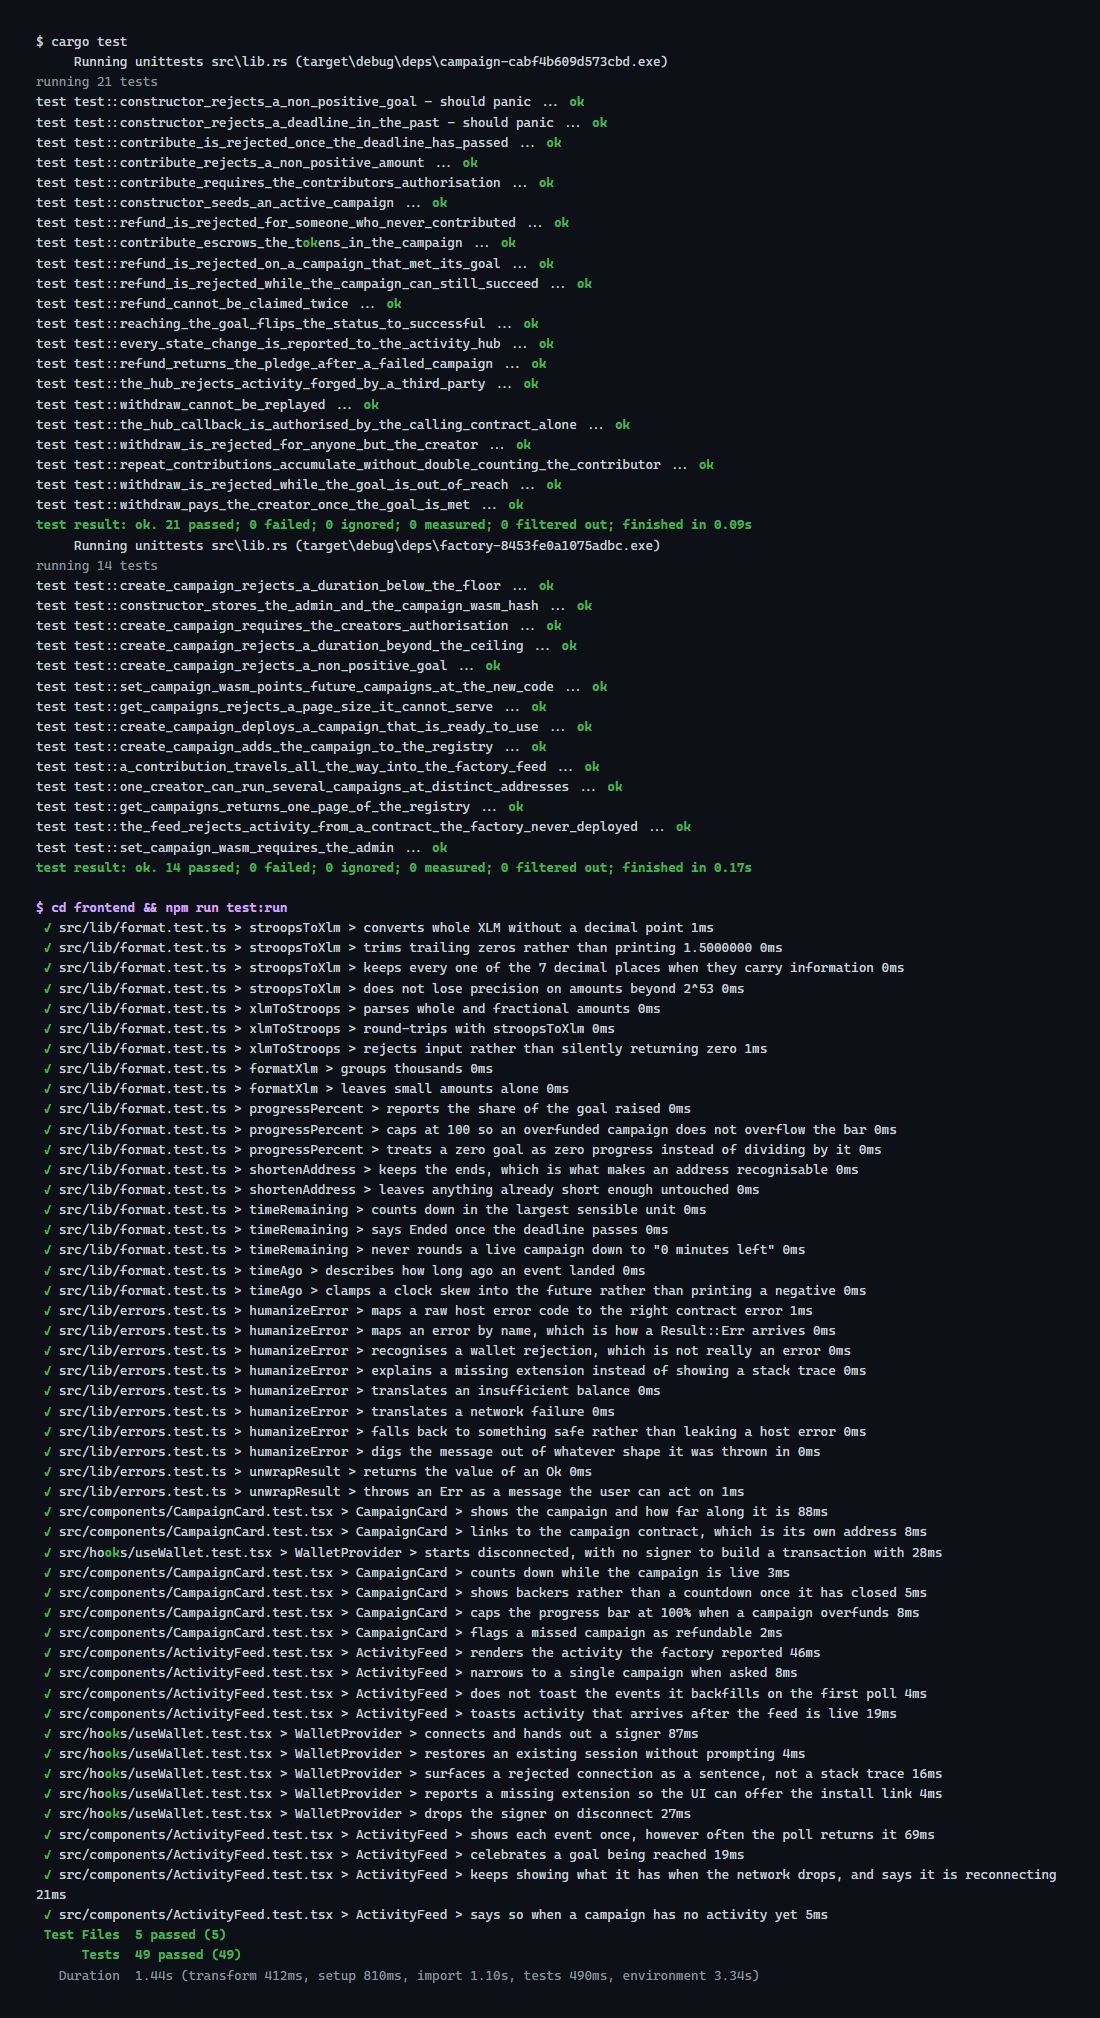
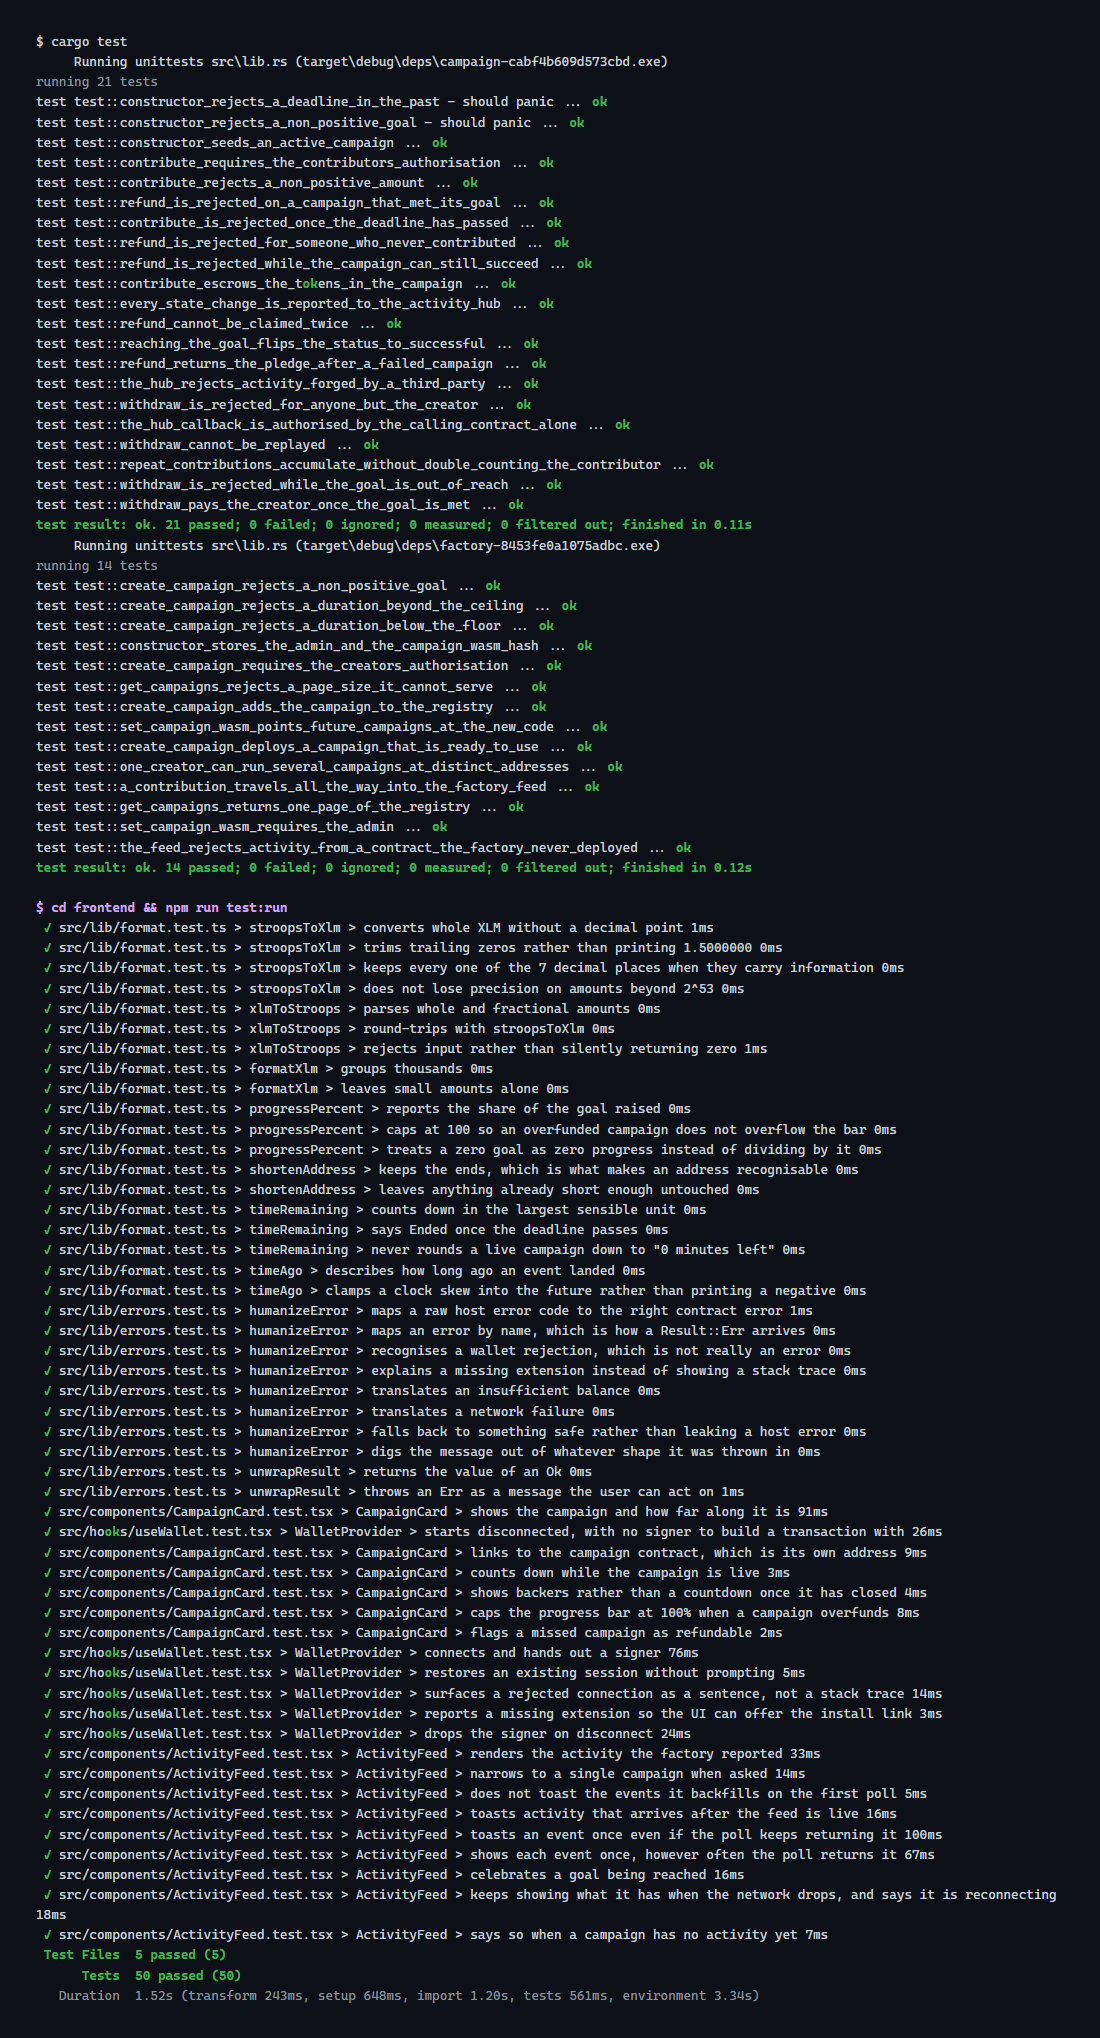
fix: deduplicate activity toasts to prevent flaky CI
The poll loop was toasting incoming events before deduplicating them, so a repeated RPC response would fire the same notification twice. Moved dedup to a shared handled-set that gates both the feed and the toast path. Added a regression test that pins the fix.

Changed region(s): [[0.0309, 0.0312, 0.8655, 0.999], [0.9273, 0.9054, 0.9582, 0.9366], [0.6491, 0.2498, 0.68, 0.281]]

diff --git a/frontend/src/hooks/useActivity.tsx b/frontend/src/hooks/useActivity.tsx
@@ -30,6 +30,8 @@ const ActivityContext = createContext<ActivityContextValue | null>(null)
 
 const POLL_INTERVAL_MS = 5_000
 const MAX_EVENTS = 60
+/** How many event ids to remember before pruning back down to MAX_EVENTS. */
+const MAX_HANDLED = 500
 
 /**
  * Streams the platform's activity from the factory contract.
@@ -63,6 +65,15 @@ export function ActivityProvider({
     // dozen toasts at once for things that happened before the user arrived.
     let seeded = false
 
+    // Every event id we have already handled.
+    //
+    // The cursor should mean an event never arrives twice, but "should" is doing
+    // a lot of work there: a retried request or an overlapping page would
+    // otherwise toast the same contribution at the user again. Deduplicating here
+    // rather than inside `setEvents` is what keeps the feed and the toasts working
+    // from the same set — they used to disagree, and the toasts repeated.
+    const handled = new Set<string>()
+
     const tick = async () => {
       try {
         const page = await pollActivity(cursor)
@@ -71,18 +82,21 @@ export function ActivityProvider({
         cursor = page.cursor || cursor
         setStatus('live')
 
-        if (page.activity.length > 0) {
-          // RPC returns oldest first; the feed reads newest first.
-          const incoming = [...page.activity].reverse()
+        // RPC returns oldest first; the feed reads newest first.
+        const fresh = [...page.activity].reverse().filter((event) => !handled.has(event.id))
 
-          setEvents((current) => {
-            const seen = new Set(current.map((event) => event.id))
-            const fresh = incoming.filter((event) => !seen.has(event.id))
-            if (fresh.length === 0) return current
-            return [...fresh, ...current].slice(0, MAX_EVENTS)
-          })
+        if (fresh.length > 0) {
+          fresh.forEach((event) => handled.add(event.id))
+          // The feed only keeps MAX_EVENTS, so this set would otherwise be the one
+          // thing in a long session that grows without bound.
+          if (handled.size > MAX_HANDLED) {
+            const recent = [...handled].slice(-MAX_EVENTS)
+            handled.clear()
+            recent.forEach((id) => handled.add(id))
+          }
 
-          if (seeded) incoming.forEach(announce)
+          setEvents((current) => [...fresh, ...current].slice(0, MAX_EVENTS))
+          if (seeded) fresh.forEach(announce)
           setRevision((value) => value + 1)
         }
 

diff --git a/frontend/src/components/ActivityFeed.test.tsx b/frontend/src/components/ActivityFeed.test.tsx
@@ -92,13 +92,37 @@ describe('ActivityFeed', () => {
   it('toasts activity that arrives after the feed is live', async () => {
     pollActivity
       .mockResolvedValueOnce(page([event({ id: 'seed' })]))
-      .mockResolvedValue(page([event({ id: 'fresh', amount: 1_000_000_000n })], 'cursor-2'))
+      .mockResolvedValueOnce(page([event({ id: 'fresh', amount: 1_000_000_000n })], 'cursor-2'))
+      .mockResolvedValue(page([], 'cursor-3'))
 
     renderFeed()
     await screen.findByText('25 XLM')
 
     expect(await screen.findByText('New contribution')).toBeInTheDocument()
     expect(await screen.findByText(/pledged 100 XLM/)).toBeInTheDocument()
+  })
+
+  /**
+   * The cursor should mean an event never arrives twice — but a retry or an
+   * overlapping page would, and telling someone twice that the same contribution
+   * landed is worse than not telling them at all. Deduplicating the *toasts*, not
+   * just the feed rows, is what this pins: the two used to work from different
+   * lists, and only the rows were deduplicated.
+   */
+  it('toasts an event once even if the poll keeps returning it', async () => {
+    pollActivity
+      .mockResolvedValueOnce(page([event({ id: 'seed' })]))
+      .mockResolvedValue(page([event({ id: 'repeated', amount: 1_000_000_000n })], 'cursor-2'))
+
+    renderFeed()
+    await screen.findByText('25 XLM')
+    await screen.findByText('New contribution')
+
+    // Let several more polls return the very same event.
+    await new Promise((resolve) => setTimeout(resolve, 80))
+
+    expect(screen.getAllByText('New contribution')).toHaveLength(1)
+    expect(screen.getAllByText(/pledged 100 XLM/)).toHaveLength(1)
   })
 
   it('shows each event once, however often the poll returns it', async () => {

diff --git a/README.md b/README.md
@@ -8,7 +8,7 @@ Pledges sit in escrow until the goal is met. If it isn't, every backer takes the
 
 [![CI](../../actions/workflows/ci.yml/badge.svg)](../../actions/workflows/ci.yml)
 [![Network](https://img.shields.io/badge/network-testnet-7c5cff)](https://stellar.expert/explorer/testnet/contract/CDHZUBWTRT53NQKJKJCOXWKM5BITXPYYHWKLQYWQNKJMVNNXDPJT3Z57)
-[![Tests](https://img.shields.io/badge/tests-84%20passing-3dd68c)](docs/test-output.txt)
+[![Tests](https://img.shields.io/badge/tests-85%20passing-3dd68c)](docs/test-output.txt)
 [![License](https://img.shields.io/badge/license-MIT-blue)](LICENSE)
 
 **[Live demo](https://stellarfund-blush.vercel.app) · [Demo video](https://youtu.be/Ldd2SLI9lQ0) · [Factory contract](https://stellar.expert/explorer/testnet/contract/CDHZUBWTRT53NQKJKJCOXWKM5BITXPYYHWKLQYWQNKJMVNNXDPJT3Z57)**
